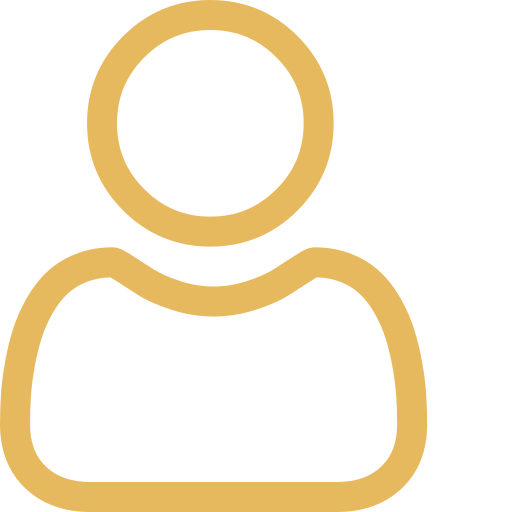
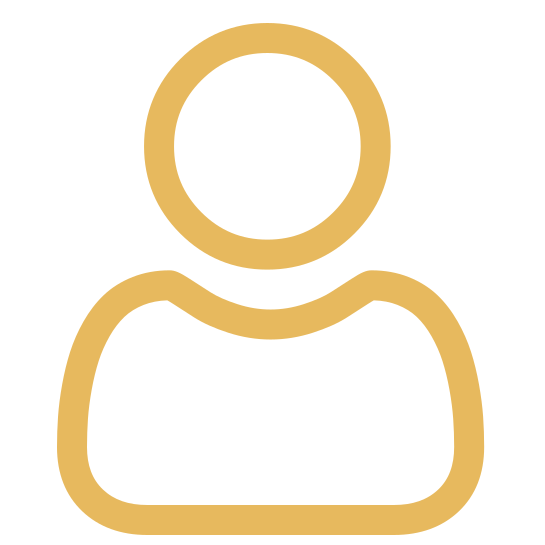
v10

Changed region(s): [[0.0, 0.0, 0.9062, 1.0]]

diff --git a/index.html b/index.html
@@ -311,7 +311,7 @@
               <div class="content-card" data-testimonials-item>
 
                 <figure class="testimonials-avatar-box">
-                  <img src="./assets/images/avatar-1.png" alt="Person A" width="60" data-testimonials-avatar>
+                  <img src="./assets/images/user.png" alt="Person A" width="60" data-testimonials-avatar>
                 </figure>
 
                 <h4 class="h4 testimonials-item-title" data-testimonials-title>Person A</h4>
